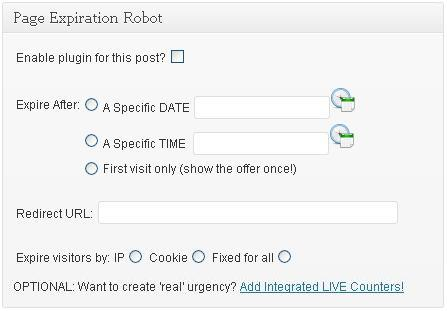
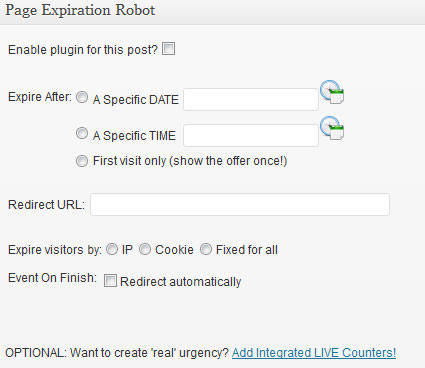
1.24 upgrade files
git-svn-id: https://plugins.svn.wordpress.org/page-expiration-robot/trunk@595329 b8457f37-d9ea-0310-8a92-e5e31aec5664

diff --git a/expirer.php b/expirer.php
@@ -8,7 +8,7 @@ Plugin URI: http://www.PageExpirationRobot.com
 Description: Page Expiration Robot is a free plugin for internet marketers who want to setup one-time offers and schedule their pages and posts to expire after certain amount of time to create real urgency to visitors!
 Author: Internet Marketing Wizard
 Author URI: http://www.InternetMarketingWizard.com/
-Version: 1.23
+Version: 1.24
 License: GPLv2 or later
 
 */
@@ -46,6 +46,7 @@ P_Id BIGINT NOT NULL AUTO_INCREMENT,
 post_id BIGINT NOT NULL,
 expiry_time BIGINT NOT NULL,
 method INT NOT NULL,
+event INT NOT NULL,
 timestamp BIGINT,
 redirection_url TEXT NOT NULL,
 blog_id BIGINT NOT NULL,
@@ -87,6 +88,7 @@ $default_second="";
 $method_0="";
 $method_1="";
 $method_2="";
+$event_0="";
 $id=$post->ID;
 global $wpdb;
 global $blog_id;
@@ -124,6 +126,12 @@ $link=$res['redirection_url'];
 	 $expiry_method_0=" checked='true' ";
 	 $expiry_method = 0;
 	 }
+
+if($res['event']=='0'){
+		$event_0=" checked='true' ";
+	}else{
+		$event_0='';
+	}
  $time=$res['expiry_time'];
  $expires_on=$res['expiry_date_time'];
  $expires_on = str_replace(" ","-",$expires_on);
@@ -277,7 +285,7 @@ jQuery("#expiry_date_time").change(function(){
 			day = period.substring(0, 2);
 			hour = period.substring(3, 5);
 			minute = period.substring(6, 8);
-			second = period.substring(9, 11);
+			second = period.substring(9, 12);
 			jQuery("#expiry_hour").val(hour);
 			jQuery("#expiry_minute").val(minute);
 			jQuery("#expiry_second").val(second);	
@@ -449,6 +457,9 @@ jQuery(document).ready(function(){
 		<label for="method">Expire visitors by: </label></td><td><input type='radio' class='method' readonly="readonly" name='method' value='0' <?php echo $method_0; ?> />&nbsp;<label for="method" selected>IP</label>&nbsp;&nbsp;<input type='radio' class='method' name='method' value='1' <?php echo $method_1; ?>  />&nbsp;<label for="method">Cookie</label>&nbsp;&nbsp;<input type='radio' class='method' name='method' value='2' <?php echo $method_2; ?>  />&nbsp;<label for="method">Fixed for all</label>
 		<input type="hidden" id="methodvalue" name="method" value="1">
 		</td></tr></table>
+		<Table border='0'><tr><td>
+		<label for="event">Event On Finish: </label></td><td valign="top"><div style="margin-top:9px;">&nbsp;<input type='checkbox' name='event' id="redirect_auto" value='0' <?php echo $event_0; ?> />&nbsp;<label for="event" selected>Redirect automatically</label></div></td></tr>
+	   </Table>
 		<input type="hidden" name="my_meta_box_nonce" value="<?php echo wp_create_nonce( plugin_basename( __FILE__ ) ); ?>" />
 		<Br /><br /><Br />
 		<div style='width:450px;'>
@@ -590,8 +601,11 @@ $_POST['expiry_second']=0;
 	//echo "INSERT INTO wp_page_expiry_info (expiry_time,redirection_url,post_id,method,timestamp,blog_id) VALUES ($time,'$url',$pid,$method,$timestamp,$blog_id)";
 	global $wpdb;
 	//$query3="ALTER TABLE wp_page_expiry_info ADD blog_id BIGINT NOT NULL";
-	
-	$query="INSERT INTO wp_page_expiry_info (expiry_time,redirection_url,post_id,method,timestamp,blog_id,expiry_date_time) VALUES ('$time','$url','$pid','$method','$timestamp','$blog_id','$expiry_dateandtime')";
+	if (isset($_POST['event']))
+		$event=$_POST['event'];
+	else
+		$event = '-1';
+	$query="INSERT INTO wp_page_expiry_info (expiry_time,redirection_url,post_id,method,timestamp,blog_id,expiry_date_time,event) VALUES ('$time','$url','$pid','$method','$timestamp','$blog_id','$expiry_dateandtime','$event')";
 	
 
 	
@@ -838,21 +852,15 @@ $mys="0".$minutes;
 if($seconds<=9){
 $sys="0".$seconds;
 }
+if ($info['event'] != 0)
+	$link = "#";
 $poster.= <<<DOM
-<Br />
+<Br /><div id="counter" style="display:none;"></div>
 <!-- changes made by webmask on 16th May 2011--->
 <script type='text/javascript'>
 jQuery.noConflict();
 jQuery(document).ready(function(){
-  jQuery(document).countDown({
-    stepTime: 60,
-    format: "dd:hh:mm:ss",
-    startTime: "$dys:$hys:$mys:$sys",
-    digitWidth: 53,
-    digitHeight: 77,
-    timerEnd: function() { alert("Sorry but this offer has just expired!"); window.location='$link'; },
-    image: "wp-content/plugins/$pluginName/digits.png"
-  });
+  jQuery("#counter").countDown({targetOffset: {'day':$dys,'month':0,'year':0,'hour':$hys,'min':$mys,'sec':$sys},onComplete:function(){window.location="$link"; }});
   });
   
   
